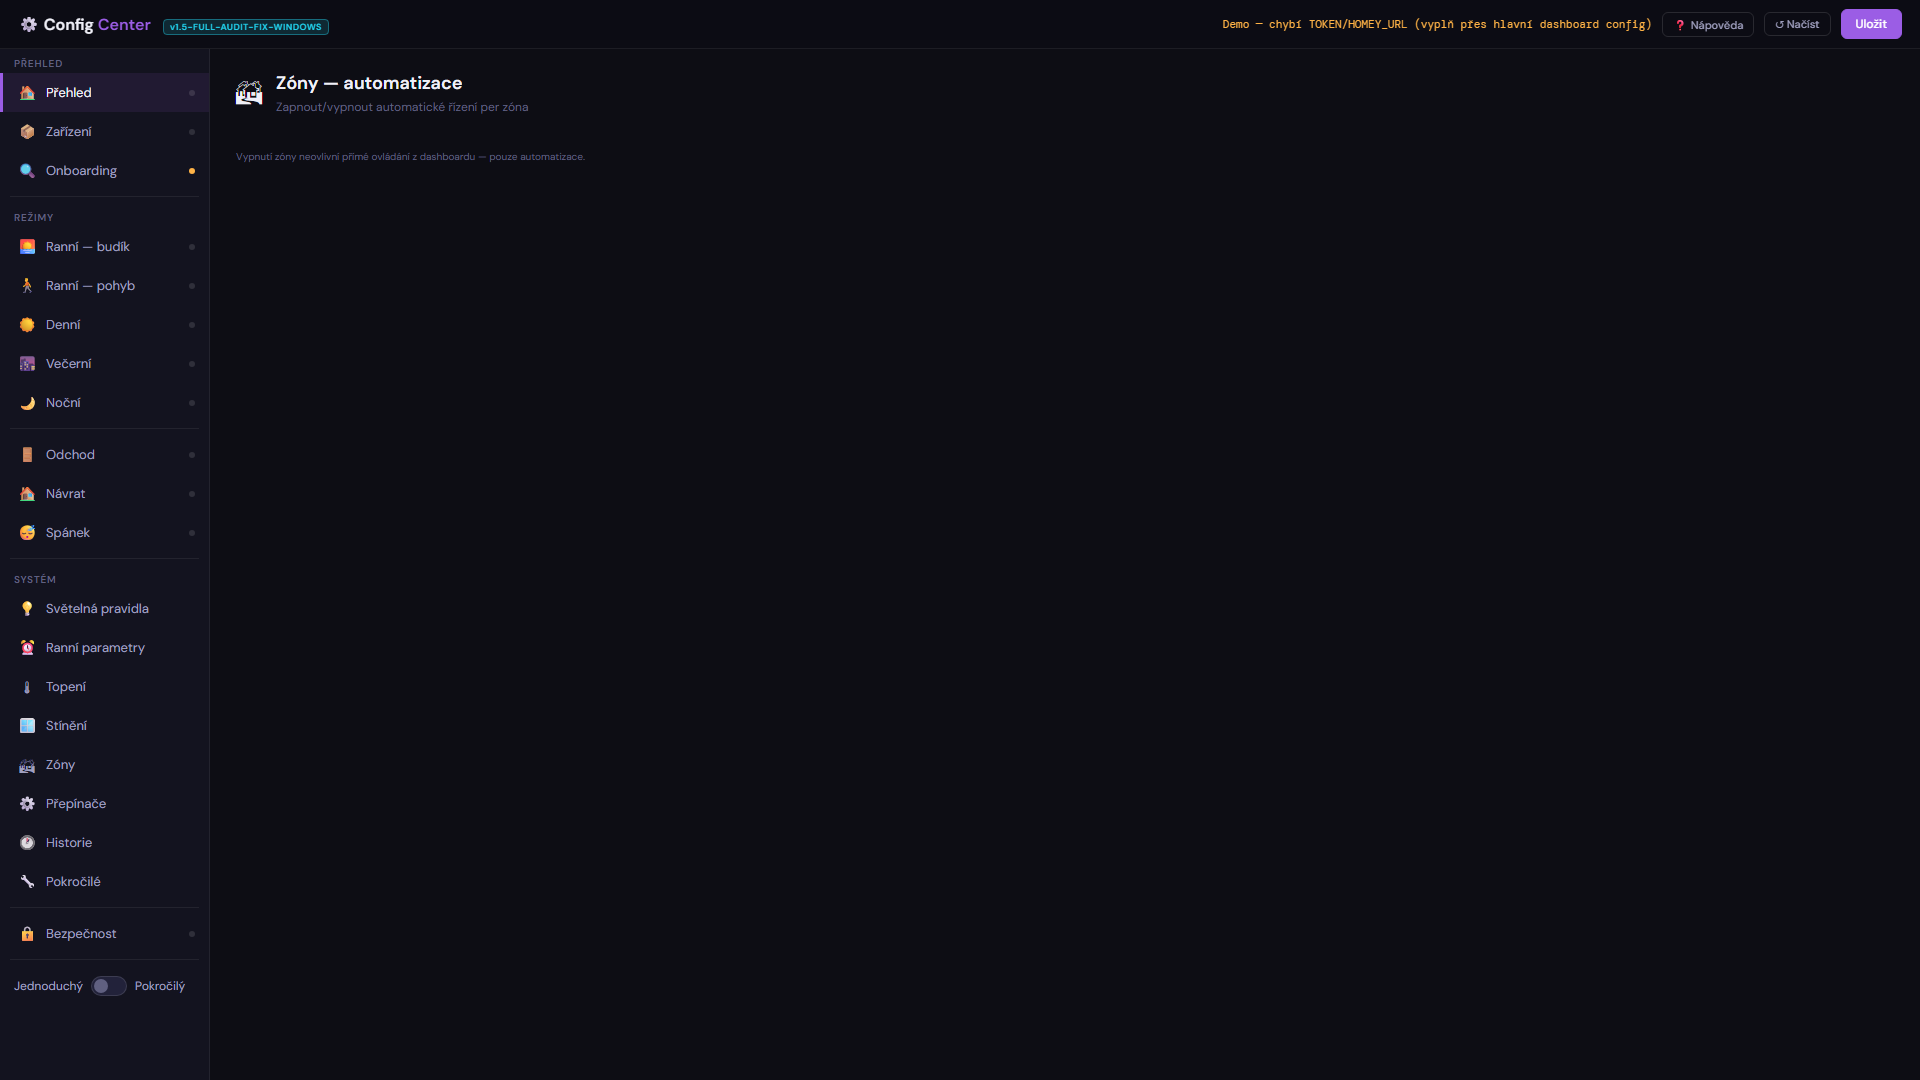
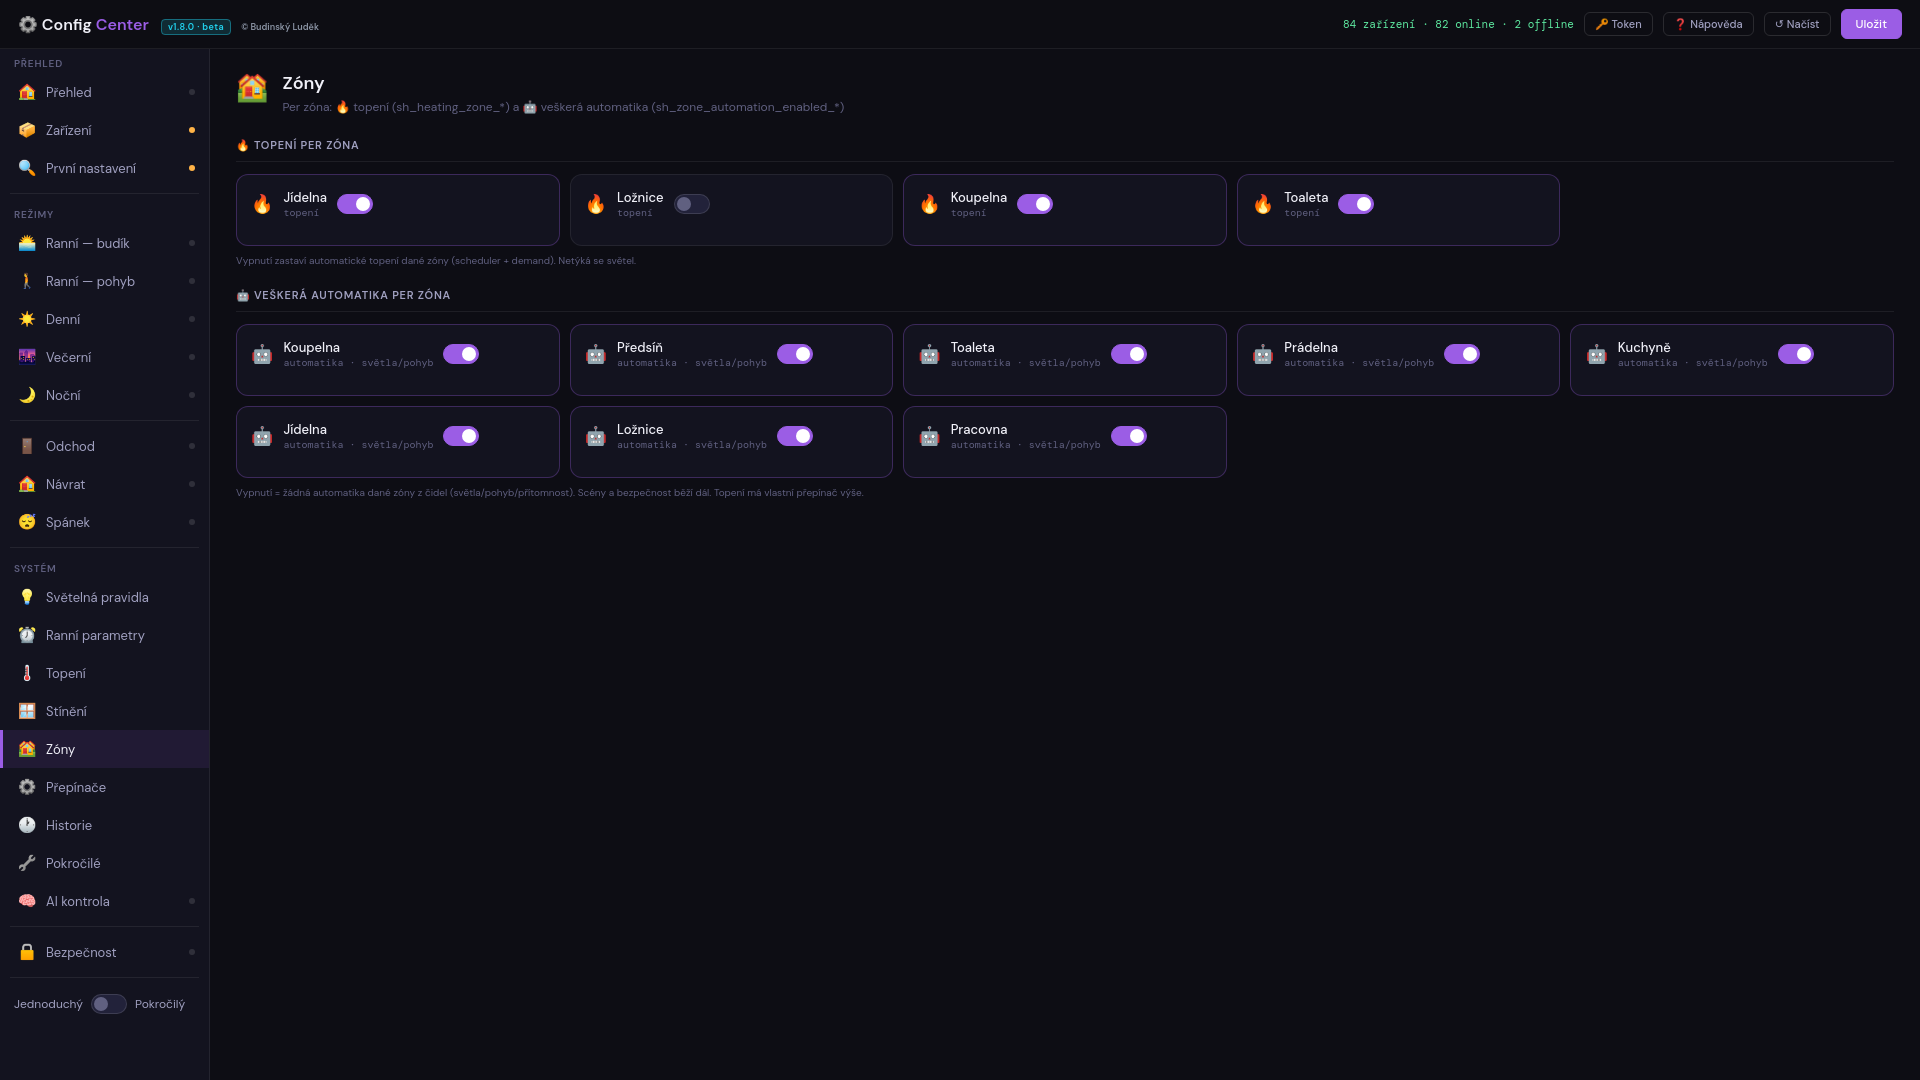
web/aplikace: kiosk + Config Center — nové screeny, Car Guard, deník
Deník na stránce Config Centra tvrdil v1.7.5 (květen), skutečnost je v1.8.0
beta (srpen). Stránka kiosku neměla o kameře ani Car Guardu ani zmínku.

Screeny (nové, sejmuté z živého systému):
- Config Center 7× ve full HD z běžící v1.8.0 (84 zařízení, 83 online, drift)
  + 2 nové stránky: AI kontrola a Zařízení
- kiosk 2× v nativním 1024x600 přímo z panelu (proto mají reálná data):
  Car Guard a hlavní obrazovka

Texty (cs + en + it; deník je jen v cs):
- kiosk: kamera a hlídání auta; deník doplněn o to, proč byl těžký ne sám
  detektor, ale odlišit "někdo je u mého auta" od "někdo jde po dvoře"
- Config Center: vlastní Windows aplikace s instalátorem a tichou aktualizací,
  hlídání driftu, sedm dosud skrytých nastavení

Opraveno nepravdivé tvrzení: Config Center už na panelu na zdi neběží
(config_center.html tam vrací HTTP 404) — text tvrdil opak.

diff --git a/aplikace/rpi-kiosk.html b/aplikace/rpi-kiosk.html
@@ -61,11 +61,14 @@
       <li><strong>Ovládání světel</strong> — Všechny místnosti, dim, barva, scény. Žádné hledání v telefonu.</li>
       <li><strong>Audio z rádia</strong> — Spuštění/zastavení internetových rádií, volba reproduktoru, hlasitost.</li>
       <li><strong>Topení a energie</strong> — Runtime kotle, TRV zóny, aktuální odběr, který spotřebič tahá.</li>
+      <li><strong>Kamera a hlídání auta</strong> — Živý obraz z kamery před domem přímo na panelu. Systém sám pozná, že u auta někdo stojí, a ohlásí to nahlas i zprávou na mobil — kolemjdoucí po dvoře přitom ignoruje.</li>
       <li><strong>Bez telefonu, bez login</strong> — Nemusí se nikdo přihlašovat, nemusí se nic hledat. Otevři dveře — panel ti to ukáže.</li>
   </ul>
 </section>
 
-<section><h2>Náhledy</h2><div style="display:grid;grid-template-columns:repeat(auto-fit,minmax(280px,1fr));gap:1rem;margin-top:.6rem"><figure style="margin:0"><img src="../../assets/img/aplikace/rpi-kiosk/01_audio.png" alt="Audio a scény — spuštění rádia, scénář pro relax / kino / vaření / večeři" loading="lazy" style="width:100%;height:auto;border-radius:8px;border:1px solid var(--border,#0001);display:block"><figcaption style="font-size:.85rem;color:var(--txt-muted,#666);margin-top:.4rem">Audio a scény — spuštění rádia, scénář pro relax / kino / vaření / večeři</figcaption></figure>
+<section><h2>Náhledy</h2><div style="display:grid;grid-template-columns:repeat(auto-fit,minmax(280px,1fr));gap:1rem;margin-top:.6rem"><figure style="margin:0"><img src="../../assets/img/aplikace/rpi-kiosk/05_carguard.png" alt="Hlídání auta — živý obraz z kamery, poslední události a nastavení hlášení. Hlídaná zóna se počítá sama kolem auta tam, kde zrovna stojí." loading="lazy" style="width:100%;height:auto;border-radius:8px;border:1px solid var(--border,#0001);display:block"><figcaption style="font-size:.85rem;color:var(--txt-muted,#666);margin-top:.4rem">Hlídání auta — živý obraz z kamery, poslední události a nastavení hlášení. Hlídaná zóna se počítá sama kolem auta tam, kde zrovna stojí.</figcaption></figure>
+      <figure style="margin:0"><img src="../../assets/img/aplikace/rpi-kiosk/06_home.png" alt="Hlavní obrazovka — stav domu, scény a rychlé akce jedním dotykem." loading="lazy" style="width:100%;height:auto;border-radius:8px;border:1px solid var(--border,#0001);display:block"><figcaption style="font-size:.85rem;color:var(--txt-muted,#666);margin-top:.4rem">Hlavní obrazovka — stav domu, scény a rychlé akce jedním dotykem.</figcaption></figure>
+      <figure style="margin:0"><img src="../../assets/img/aplikace/rpi-kiosk/01_audio.png" alt="Audio a scény — spuštění rádia, scénář pro relax / kino / vaření / večeři" loading="lazy" style="width:100%;height:auto;border-radius:8px;border:1px solid var(--border,#0001);display:block"><figcaption style="font-size:.85rem;color:var(--txt-muted,#666);margin-top:.4rem">Audio a scény — spuštění rádia, scénář pro relax / kino / vaření / večeři</figcaption></figure>
       <figure style="margin:0"><img src="../../assets/img/aplikace/rpi-kiosk/02_energy.png" alt="Energie a topení — runtime kotle dnes, stav TRV zón, aktuální odběr" loading="lazy" style="width:100%;height:auto;border-radius:8px;border:1px solid var(--border,#0001);display:block"><figcaption style="font-size:.85rem;color:var(--txt-muted,#666);margin-top:.4rem">Energie a topení — runtime kotle dnes, stav TRV zón, aktuální odběr</figcaption></figure>
       <figure style="margin:0"><img src="../../assets/img/aplikace/rpi-kiosk/03_scenes.png" alt="Scény (styl Loxone) — jeden velký dotyk a celá místnost se přestaví" loading="lazy" style="width:100%;height:auto;border-radius:8px;border:1px solid var(--border,#0001);display:block"><figcaption style="font-size:.85rem;color:var(--txt-muted,#666);margin-top:.4rem">Scény (styl Loxone) — jeden velký dotyk a celá místnost se přestaví</figcaption></figure>
       <figure style="margin:0"><img src="../../assets/img/aplikace/rpi-kiosk/04_settings.png" alt="Nastavení — rychlý přehled provozu domu bez nutnosti otevřít telefon" loading="lazy" style="width:100%;height:auto;border-radius:8px;border:1px solid var(--border,#0001);display:block"><figcaption style="font-size:.85rem;color:var(--txt-muted,#666);margin-top:.4rem">Nastavení — rychlý přehled provozu domu bez nutnosti otevřít telefon</figcaption></figure></div></section>
@@ -90,6 +93,9 @@
         <li><strong>Dotykový panel na zdi</strong> — Raspberry Pi 4 + 7palcový dotykový displej v chodbě, vždy zapnutý a připravený. Scény jedním palcem (Relax, Kino, Vaření, Večeře, Romantika, Práce, Příchod, Odchod).</li>
         <li><strong>Ovládání celého bytu</strong> — světla (všechny místnosti, dim, barva, scény), audio z internetových rádií (volba reproduktoru, hlasitost), topení a energie (runtime kotle, TRV zóny, aktuální odběr).</li>
         <li><strong>Bez telefonu, bez loginu</strong> — nikdo se nemusí přihlašovat ani nic hledat; otevřeš dveře a panel ti to ukáže.</li>
+        <li><strong>Kamera před domem (srpen 2026)</strong> — panel ukazuje živý obraz z kamery a poslední události i s náhledy. Nemusíš nikam chodit ani hledat aplikaci v telefonu.</li>
+        <li><strong>Hlídání auta (srpen 2026)</strong> — systém sám pozná, že u auta někdo stojí, a ohlásí to nahlas v kuchyni i zprávou na mobil. Těžké na tom nebylo rozpoznat člověka, ale odlišit „někdo je u mého auta" od „někdo jde po dvoře" — dvůr je průchozí a projde tudy přes sto lidí denně. První pokus to dokonce zhoršil: planých poplachů přibylo. Ukázalo se proč — na plochém obrázku může být člověk o patnáct metrů dál hned vedle auta. Teď se posuzuje, jak je v záběru velký: kdo stojí u auta, je vidět velký, kdo je daleko, je malý. Planých poplachů ubylo z šestadvaceti na nulu.</li>
+        <li><strong>Dvě hlasitosti hlášení</strong> — nahlas, když je někdo přímo u auta. A tišší zpráva na mobil, když se někdo u auta jen zdržuje. Aby si člověk hlášení nezačal po týdnu vypínat.</li>
         <li><strong>Spolehlivě 24/7</strong> — běží pořád, auto-restart při výpadku proudu, cca rok bez problémů.</li>
       </ul>
       <p style="color:var(--text-mut,#777);font-size:.85rem">Pozn.: aplikace běží jen lokálně, reálná data ani osobní údaje nejdou na web.</p>

diff --git a/it/aplikace/rpi-kiosk.html b/it/aplikace/rpi-kiosk.html
@@ -61,11 +61,14 @@
       <li><strong>Controllo luci</strong> — Tutte le stanze, dim, colore, scene.</li>
       <li><strong>Audio radio</strong> — Avvio/stop radio, scelta altoparlante, volume.</li>
       <li><strong>Riscaldamento e energia</strong> — Runtime caldaia, zone TRV, consumo attuale.</li>
+      <li><strong>Telecamera e sorveglianza auto</strong> — Immagine dal vivo della telecamera davanti a casa, direttamente sul pannello. Il sistema riconosce da solo che qualcuno è vicino all'auto e lo annuncia a voce e sul telefono — ignorando invece chi attraversa soltanto il cortile.</li>
       <li><strong>No telefono, no login</strong> — Niente accesso. Apri la porta — il pannello mostra.</li>
   </ul>
 </section>
 
-<section><h2>Anteprime</h2><div style="display:grid;grid-template-columns:repeat(auto-fit,minmax(280px,1fr));gap:1rem;margin-top:.6rem"><figure style="margin:0"><img src="../../../assets/img/aplikace/rpi-kiosk/01_audio.png" alt="Audio a scény — spuštění rádia, scénář pro relax / kino / vaření / večeři" loading="lazy" style="width:100%;height:auto;border-radius:8px;border:1px solid var(--border,#0001);display:block"><figcaption style="font-size:.85rem;color:var(--txt-muted,#666);margin-top:.4rem">Audio a scény — spuštění rádia, scénář pro relax / kino / vaření / večeři</figcaption></figure>
+<section><h2>Anteprime</h2><div style="display:grid;grid-template-columns:repeat(auto-fit,minmax(280px,1fr));gap:1rem;margin-top:.6rem"><figure style="margin:0"><img src="../../../assets/img/aplikace/rpi-kiosk/05_carguard.png" alt="Sorveglianza auto — immagine dal vivo, eventi recenti e impostazioni degli avvisi. L'area sorvegliata si calcola da sola attorno all'auto dov'è parcheggiata." loading="lazy" style="width:100%;height:auto;border-radius:8px;border:1px solid var(--border,#0001);display:block"><figcaption style="font-size:.85rem;color:var(--txt-muted,#666);margin-top:.4rem">Sorveglianza auto — immagine dal vivo, eventi recenti e impostazioni degli avvisi. L'area sorvegliata si calcola da sola attorno all'auto dov'è parcheggiata.</figcaption></figure>
+      <figure style="margin:0"><img src="../../../assets/img/aplikace/rpi-kiosk/06_home.png" alt="Schermata principale — stati della casa, scene e azioni rapide in un tocco." loading="lazy" style="width:100%;height:auto;border-radius:8px;border:1px solid var(--border,#0001);display:block"><figcaption style="font-size:.85rem;color:var(--txt-muted,#666);margin-top:.4rem">Schermata principale — stati della casa, scene e azioni rapide in un tocco.</figcaption></figure>
+      <figure style="margin:0"><img src="../../../assets/img/aplikace/rpi-kiosk/01_audio.png" alt="Audio a scény — spuštění rádia, scénář pro relax / kino / vaření / večeři" loading="lazy" style="width:100%;height:auto;border-radius:8px;border:1px solid var(--border,#0001);display:block"><figcaption style="font-size:.85rem;color:var(--txt-muted,#666);margin-top:.4rem">Audio a scény — spuštění rádia, scénář pro relax / kino / vaření / večeři</figcaption></figure>
       <figure style="margin:0"><img src="../../../assets/img/aplikace/rpi-kiosk/02_energy.png" alt="Energie a topení — runtime kotle dnes, stav TRV zón, aktuální odběr" loading="lazy" style="width:100%;height:auto;border-radius:8px;border:1px solid var(--border,#0001);display:block"><figcaption style="font-size:.85rem;color:var(--txt-muted,#666);margin-top:.4rem">Energie a topení — runtime kotle dnes, stav TRV zón, aktuální odběr</figcaption></figure>
       <figure style="margin:0"><img src="../../../assets/img/aplikace/rpi-kiosk/03_scenes.png" alt="Scény (styl Loxone) — jeden velký dotyk a celá místnost se přestaví" loading="lazy" style="width:100%;height:auto;border-radius:8px;border:1px solid var(--border,#0001);display:block"><figcaption style="font-size:.85rem;color:var(--txt-muted,#666);margin-top:.4rem">Scény (styl Loxone) — jeden velký dotyk a celá místnost se přestaví</figcaption></figure>
       <figure style="margin:0"><img src="../../../assets/img/aplikace/rpi-kiosk/04_settings.png" alt="Nastavení — rychlý přehled provozu domu bez nutnosti otevřít telefon" loading="lazy" style="width:100%;height:auto;border-radius:8px;border:1px solid var(--border,#0001);display:block"><figcaption style="font-size:.85rem;color:var(--txt-muted,#666);margin-top:.4rem">Nastavení — rychlý přehled provozu domu bez nutnosti otevřít telefon</figcaption></figure></div></section>

diff --git a/en/aplikace/rpi-kiosk.html b/en/aplikace/rpi-kiosk.html
@@ -61,11 +61,14 @@
       <li><strong>Light control</strong> — All rooms, dim, color, scenes. No phone hunting.</li>
       <li><strong>Radio audio</strong> — Start/stop internet radios, choose speaker, volume.</li>
       <li><strong>Heating & energy</strong> — Boiler runtime, TRV zones, current draw, top consumer.</li>
+      <li><strong>Camera and car watch</strong> — Live view from the camera outside, right on the panel. The system recognises on its own that someone is standing at the car and announces it out loud and to the phone — while ignoring people just crossing the yard.</li>
       <li><strong>No phone, no login</strong> — No sign-in needed, nothing to search for. Open the door — panel shows it.</li>
   </ul>
 </section>
 
-<section><h2>Screenshots</h2><div style="display:grid;grid-template-columns:repeat(auto-fit,minmax(280px,1fr));gap:1rem;margin-top:.6rem"><figure style="margin:0"><img src="../../../assets/img/aplikace/rpi-kiosk/01_audio.png" alt="Audio a scény — spuštění rádia, scénář pro relax / kino / vaření / večeři" loading="lazy" style="width:100%;height:auto;border-radius:8px;border:1px solid var(--border,#0001);display:block"><figcaption style="font-size:.85rem;color:var(--txt-muted,#666);margin-top:.4rem">Audio a scény — spuštění rádia, scénář pro relax / kino / vaření / večeři</figcaption></figure>
+<section><h2>Screenshots</h2><div style="display:grid;grid-template-columns:repeat(auto-fit,minmax(280px,1fr));gap:1rem;margin-top:.6rem"><figure style="margin:0"><img src="../../../assets/img/aplikace/rpi-kiosk/05_carguard.png" alt="Car watch — live camera view, recent events and alert settings. The watched area is computed around the car wherever it happens to be parked." loading="lazy" style="width:100%;height:auto;border-radius:8px;border:1px solid var(--border,#0001);display:block"><figcaption style="font-size:.85rem;color:var(--txt-muted,#666);margin-top:.4rem">Car watch — live camera view, recent events and alert settings. The watched area is computed around the car wherever it happens to be parked.</figcaption></figure>
+      <figure style="margin:0"><img src="../../../assets/img/aplikace/rpi-kiosk/06_home.png" alt="Main screen — house states, scenes and quick actions in one touch." loading="lazy" style="width:100%;height:auto;border-radius:8px;border:1px solid var(--border,#0001);display:block"><figcaption style="font-size:.85rem;color:var(--txt-muted,#666);margin-top:.4rem">Main screen — house states, scenes and quick actions in one touch.</figcaption></figure>
+      <figure style="margin:0"><img src="../../../assets/img/aplikace/rpi-kiosk/01_audio.png" alt="Audio a scény — spuštění rádia, scénář pro relax / kino / vaření / večeři" loading="lazy" style="width:100%;height:auto;border-radius:8px;border:1px solid var(--border,#0001);display:block"><figcaption style="font-size:.85rem;color:var(--txt-muted,#666);margin-top:.4rem">Audio a scény — spuštění rádia, scénář pro relax / kino / vaření / večeři</figcaption></figure>
       <figure style="margin:0"><img src="../../../assets/img/aplikace/rpi-kiosk/02_energy.png" alt="Energie a topení — runtime kotle dnes, stav TRV zón, aktuální odběr" loading="lazy" style="width:100%;height:auto;border-radius:8px;border:1px solid var(--border,#0001);display:block"><figcaption style="font-size:.85rem;color:var(--txt-muted,#666);margin-top:.4rem">Energie a topení — runtime kotle dnes, stav TRV zón, aktuální odběr</figcaption></figure>
       <figure style="margin:0"><img src="../../../assets/img/aplikace/rpi-kiosk/03_scenes.png" alt="Scény (styl Loxone) — jeden velký dotyk a celá místnost se přestaví" loading="lazy" style="width:100%;height:auto;border-radius:8px;border:1px solid var(--border,#0001);display:block"><figcaption style="font-size:.85rem;color:var(--txt-muted,#666);margin-top:.4rem">Scény (styl Loxone) — jeden velký dotyk a celá místnost se přestaví</figcaption></figure>
       <figure style="margin:0"><img src="../../../assets/img/aplikace/rpi-kiosk/04_settings.png" alt="Nastavení — rychlý přehled provozu domu bez nutnosti otevřít telefon" loading="lazy" style="width:100%;height:auto;border-radius:8px;border:1px solid var(--border,#0001);display:block"><figcaption style="font-size:.85rem;color:var(--txt-muted,#666);margin-top:.4rem">Nastavení — rychlý přehled provozu domu bez nutnosti otevřít telefon</figcaption></figure></div></section>
